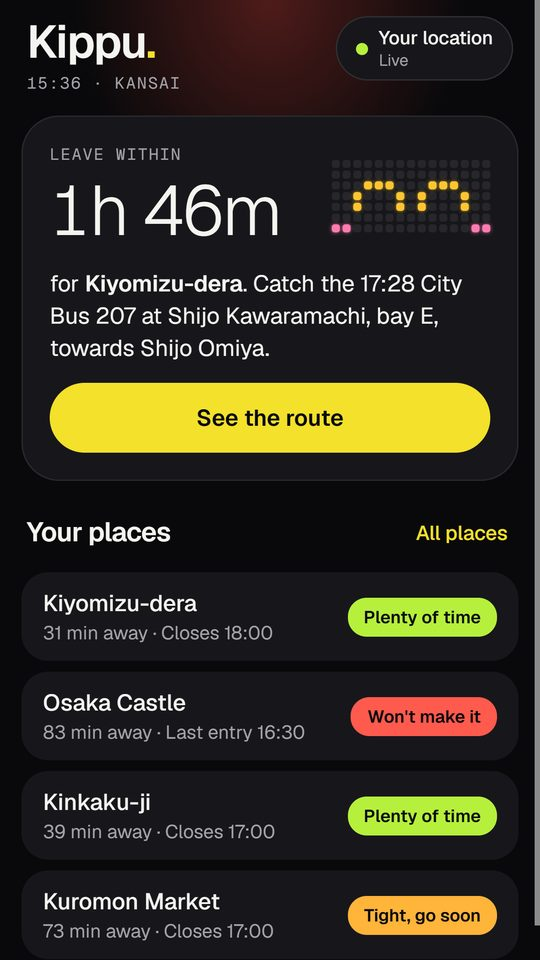
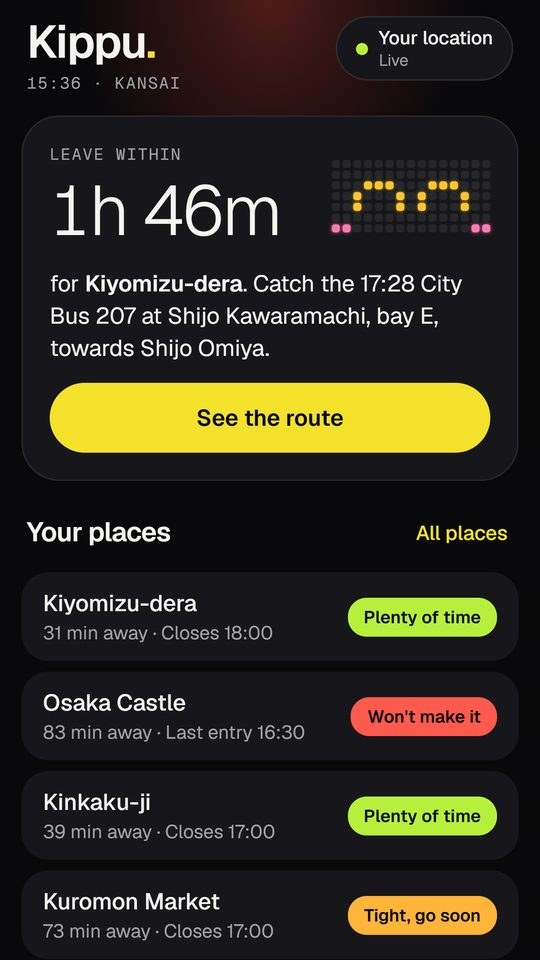
Tidy the Kippu and Steady boarding passes
Keeps the pass button label on one line (ABOUT STEADY wrapped) and
removes a scroll-bar line from the Kippu screenshot.

Changed region(s): [[0.9778, 0.0, 1.0, 0.9688]]

diff --git a/styles.css b/styles.css
@@ -108,7 +108,7 @@ a.store:hover { transform: translateY(-2px); color: var(--bg); }
 .stub-label { font-family: 'JetBrains Mono', monospace; font-size: 12px; font-weight: 700; letter-spacing: .1em; }
 .stub-code { font-family: Archivo; font-stretch: 125%; font-weight: 900; font-size: 48px; line-height: 1; margin-top: 6px; }
 .barcode { height: 56px; margin-top: 22px; opacity: .85; background: repeating-linear-gradient(90deg, currentColor 0 3px, transparent 3px 5px, currentColor 5px 6px, transparent 6px 10px); }
-.stub-cta { height: 56px; display: flex; align-items: center; justify-content: space-between; gap: 12px; padding: 0 20px; background: var(--bg); color: var(--text); font-family: Archivo; font-stretch: 112%; font-weight: 800; font-size: 15px; letter-spacing: .03em; border-radius: 14px; transition: transform .2s; }
+.stub-cta { height: 56px; display: flex; align-items: center; justify-content: space-between; gap: 12px; white-space: nowrap; padding: 0 20px; background: var(--bg); color: var(--text); font-family: Archivo; font-stretch: 112%; font-weight: 800; font-size: 15px; letter-spacing: .03em; border-radius: 14px; transition: transform .2s; }
 .stub-cta:hover { transform: translateX(4px); color: var(--accent); }
 
 /* The lineup */
